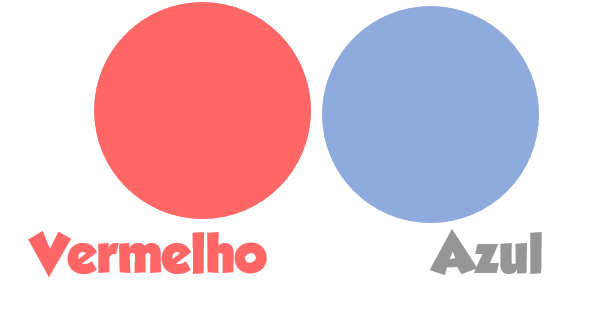
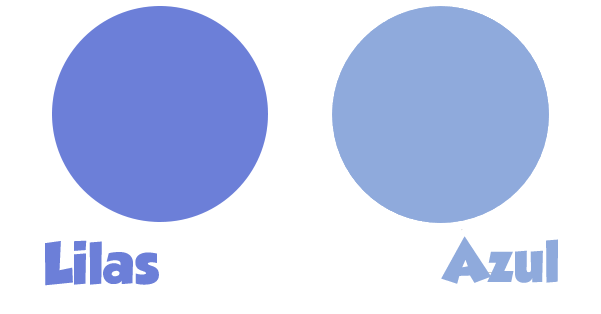
ajustes visuais no jogo dos conjuntos

diff --git a/src/app/hd-game/hd-game.page.ts b/src/app/hd-game/hd-game.page.ts
@@ -12,7 +12,7 @@ let marginWr = -5, marginUsb = -5, marginHd = -5;
 let heightFrame = 0, widthFrame = 0;
 
 //a marginTop da cesta eh de 70vh. Para descobrir o y, eh soh pegar a altura e dividir por 100 (medida por vh) e multiplicar pela margin
-let yBasket = 0, xBasket = 0; 
+let yBasket = 0, xBasket = 0;
 let widthBasket = 0, heightBasket = 0;
 
 let score = 0;
@@ -28,8 +28,8 @@ var choosenCharacter;
 
 export class HdGamePage {
 
-  constructor(private navigation: NavController) { 
-    
+  constructor(private navigation: NavController) {
+
   }
 
 
@@ -42,10 +42,10 @@ export class HdGamePage {
     marginHd = -5;
     this.getItem();
     this.carregar();
-    
+
   }
 
-  ionViewDidLeave(){
+  ionViewDidLeave() {
     document.location.reload();
   }
 
@@ -53,7 +53,7 @@ export class HdGamePage {
     const { value } = await Storage.get({ key: 'character' });
     choosenCharacter = value;
 
-    if(choosenCharacter==1){
+    if (choosenCharacter == 1) {
       document.getElementById("won").setAttribute('src', './assets/wonBoy.png')
       document.getElementById("lost").setAttribute('src', './assets/lostBoy.png')
     } else {
@@ -62,14 +62,14 @@ export class HdGamePage {
     }
   }
 
-  carregar(){
-        
+  carregar() {
+
     heightFrame = document.getElementById("game").offsetHeight;
     widthFrame = document.getElementById("game").offsetWidth;
 
     //a marginTop da cesta eh de 80vh. Para descobrir o y, eh soh pegar a altura e dividir por 100 (medida por vh) e multiplicar pela margin
     xBasket = 0;
-    yBasket = (heightFrame/100)*80; 
+    yBasket = (heightFrame / 100) * 80;
     widthBasket = document.getElementById("basket").getBoundingClientRect().width;
     heightBasket = document.getElementById("basket").getBoundingClientRect().height;
 
@@ -78,64 +78,64 @@ export class HdGamePage {
     var usb = document.getElementById("usb");
     var hd = document.getElementById("hd");
 
-    if(marginCP == -5){
-      cp.style.marginLeft = (Math.random() * (80 - 1) + 1)+"vw"; 
+    if (marginCP == -5) {
+      cp.style.marginLeft = (Math.random() * (80 - 1) + 1) + "vw";
     }
-    cp.style.marginTop = marginCP+"vh";
+    cp.style.marginTop = marginCP + "vh";
 
-    if(marginWr==-5){
-      wr.style.marginLeft  = (Math.random() * (80 - 1) + 1)+"vw"; 
+    if (marginWr == -5) {
+      wr.style.marginLeft = (Math.random() * (80 - 1) + 1) + "vw";
     }
-    wr.style.marginTop = marginWr+"vh";
+    wr.style.marginTop = marginWr + "vh";
 
-    if(marginUsb == -5){
-      usb.style.marginLeft = (Math.random() * (80 - 1) + 1)+"vw"; 
+    if (marginUsb == -5) {
+      usb.style.marginLeft = (Math.random() * (80 - 1) + 1) + "vw";
     }
-    usb.style.marginTop = marginUsb+"vh";
+    usb.style.marginTop = marginUsb + "vh";
 
-    if(marginHd == -5){
-      hd.style.marginLeft = (Math.random() * (80 - 1) + 1)+"vw"; 
+    if (marginHd == -5) {
+      hd.style.marginLeft = (Math.random() * (80 - 1) + 1) + "vw";
     }
-    hd.style.marginTop = marginHd+"vh";
+    hd.style.marginTop = marginHd + "vh";
 
-    document.getElementById("pts").innerHTML = score+"/10";
+    document.getElementById("pts").innerHTML = score + "/10";
 
-    var loop = setInterval(function(){
+    var loop = setInterval(function () {
 
       //chip
-      if(marginCP == -5){
-        cp.style.marginLeft = (Math.random() * (80 - 1) + 1)+"vw"; 
-      } 
-      cp.style.marginTop = marginCP+"vh";
-      marginCP+=1;
+      if (marginCP == -5) {
+        cp.style.marginLeft = (Math.random() * (80 - 1) + 1) + "vw";
+      }
+      cp.style.marginTop = marginCP + "vh";
+      marginCP += 1;
 
       //wireless router
-      if(marginWr==-5){
-        wr.style.marginLeft  = (Math.random() * (80 - 1) + 1)+"vw"; 
+      if (marginWr == -5) {
+        wr.style.marginLeft = (Math.random() * (80 - 1) + 1) + "vw";
       }
-      wr.style.marginTop = marginWr+"vh";
-      marginWr+=1;
+      wr.style.marginTop = marginWr + "vh";
+      marginWr += 1;
 
       //usb
-      if(marginUsb == -5){
-        usb.style.marginLeft = (Math.random() * (80 - 1) + 1)+"vw"; 
+      if (marginUsb == -5) {
+        usb.style.marginLeft = (Math.random() * (80 - 1) + 1) + "vw";
       }
-      usb.style.marginTop = marginUsb+"vh";
-      marginUsb+=1;
+      usb.style.marginTop = marginUsb + "vh";
+      marginUsb += 1;
 
       //hd
-      if(marginHd == -5){
-        hd.style.marginLeft = (Math.random() * (80 - 1) + 1)+"vw"; 
+      if (marginHd == -5) {
+        hd.style.marginLeft = (Math.random() * (80 - 1) + 1) + "vw";
       }
-      hd.style.marginTop = marginHd+"vh";
-      marginHd+=1;
+      hd.style.marginTop = marginHd + "vh";
+      marginHd += 1;
 
 
       xBasket = document.getElementById("basket").getBoundingClientRect().left;
 
       var ycp = cp.offsetTop;
       var xcp = cp.offsetLeft;
-      var widthCp= cp.offsetWidth;
+      var widthCp = cp.offsetWidth;
       var heightCp = cp.offsetHeight;
 
       var yWr = wr.offsetTop;
@@ -152,65 +152,69 @@ export class HdGamePage {
       var xHd = hd.offsetLeft;
       var widthHd = hd.offsetWidth;
       var heightHd = hd.offsetHeight;
-    
-      if( ( (xcp>=xBasket && xcp<=xBasket+widthBasket) || (xcp+widthCp>=xBasket && xcp+widthCp<=xBasket+widthBasket)) && (ycp+heightCp>yBasket+5 && ycp<=yBasket+heightBasket)){
+
+      if (((xcp >= xBasket && xcp <= xBasket + widthBasket) || (xcp + widthCp >= xBasket && xcp + widthCp <= xBasket + widthBasket)) 
+      && (ycp + heightCp > yBasket + 5 && ycp <= yBasket + heightBasket)) {
         cp.style.position = "absolute";
         wr.style.position = "absolute";
         marginCP = -5;
         errors++;
-      } else if(ycp>heightFrame+10){
+      } else if (ycp > heightFrame + 10) {
         marginCP = -5;
       }
 
-      if( ( (xWr>=xBasket && xWr<=xBasket+widthBasket) || (xWr+widthWr>=xBasket && xWr+widthWr<=xBasket+widthBasket)) && (yWr+heightWr>yBasket+5 && yWr<=yBasket+heightBasket)){
+      if (((xWr >= xBasket && xWr <= xBasket + widthBasket) || (xWr + widthWr >= xBasket && xWr + widthWr <= xBasket + widthBasket)) 
+      && (yWr + heightWr > yBasket + 5 && yWr <= yBasket + heightBasket)) {
         marginWr = -5;
         errors++;
-      } else if(yWr>heightFrame+10){
+      } else if (yWr > heightFrame + 10) {
         marginWr = -5;
       }
 
-      if( ( (xUsb>=xBasket && xUsb<=xBasket+widthBasket) || (xUsb+widthUsb>=xBasket && xUsb+widthUsb<=xBasket+widthBasket)) && (yUsb+heightUsb>yBasket+5 && yUsb<=yBasket+heightBasket)){
+      if (((xUsb >= xBasket && xUsb <= xBasket + widthBasket) || (xUsb + widthUsb >= xBasket && xUsb + widthUsb <= xBasket + widthBasket)) 
+      && (yUsb + heightUsb > yBasket + 5 && yUsb <= yBasket + heightBasket)) {
         marginUsb = -5;
         errors++;
-      } else if(yUsb>heightFrame+10){
+      } else if (yUsb > heightFrame + 10) {
         marginUsb = -5;
       }
 
-      if( ( (xHd>=xBasket && xHd<=xBasket+widthBasket) || (xHd+widthHd>=xBasket && xHd+widthHd<=xBasket+widthBasket)) && (yHd+heightHd>yBasket+5 && yHd<=yBasket+heightBasket)){
+      if (((xHd >= xBasket && xHd <= xBasket + widthBasket) || (xHd + widthHd >= xBasket && xHd + widthHd <= xBasket + widthBasket)) 
+      && (yHd + heightHd > yBasket + 5 && yHd <= yBasket + heightBasket)) {
         marginHd = -5;
         score++;
-      } else if(yHd>heightFrame+10){
+      } else if (yHd > heightFrame + 10) {
         marginHd = -5;
       }
 
-      document.getElementById("pts").innerHTML = score+"/10";
+      document.getElementById("pts").innerHTML = score + "/10";
 
-      if(score==10){
+      if (score == 10) {
         document.getElementById("won").style.visibility = "visible";
         marginCP = -10;
         marginHd = -10;
         marginWr = -10;
         marginUsb = -10;
-        setTimeout(function(){clearInterval(loop)}, 1000);
-      } else if(errors>=3){
+        setTimeout(function () { clearInterval(loop) }, 1000);
+      } else if (errors >= 3) {
         document.getElementById("lost").style.visibility = "visible";
         marginCP = -10;
         marginHd = -10;
         marginWr = -10;
         marginUsb = -10;
-        setTimeout(function(){clearInterval(loop)}, 1000);
+        setTimeout(function () { clearInterval(loop) }, 1000);
       }
 
       console.log(errors);
-     
+
     }, 100);
   }
 
-  backChooseGame(){
+  backChooseGame() {
     this.navigation.navigateBack("choose-game")
   }
 
-  backHdPlay(){
+  backHdPlay() {
     this.navigation.back();
   }
 

diff --git a/src/app/sets-game/sets-game.page.scss b/src/app/sets-game/sets-game.page.scss
@@ -49,7 +49,11 @@ ion-header{
     justify-content: center;
     align-items: center;
     text-align: center;
+    background-image: url("../../assets/bgSets.png");
     padding-top: 8vw;
+    height: 100vh;
+    max-height: 100vh;
+    background-size: 100%;
 }
 
 .game{
@@ -64,20 +68,19 @@ ion-header{
     display: flex;
     flex-wrap: wrap;
     justify-content: space-around;
-    border: 5px solid #243b81;
-    border-radius: 10px;
 }
 
 .lists{
-    font-size: 4vw;
-    color: #243b81;
+    font-size: 18pt;
+    color:#ffffff;
+    letter-spacing: 1pt;
+    line-height: 1.1;
 }
 
 .circle {
     width: 60vw;
     height: 65vw;
-    filter: invert(30%) sepia(70%) saturate(2600%) hue-rotate(346deg) brightness(130%) contrast(78%);
-    opacity: .7;
+    filter: invert(76%) sepia(65%) saturate(4808%) hue-rotate(202deg) brightness(86%) contrast(98%);
     position: absolute;
     z-index: 10;
     top: 2vw;
@@ -85,7 +88,8 @@ ion-header{
 }
 
 #circle2 {
-    filter: invert(30%) sepia(70%) saturate(2600%) hue-rotate(200deg) brightness(130%) contrast(78%);
+    filter: invert(47%) sepia(27%) saturate(3387%) hue-rotate(187deg) brightness(109%) contrast(99%);
+    opacity: .7;
     left: 35vw;
 }
 
@@ -121,16 +125,11 @@ ion-header{
 }
 
 .lost{
-    margin-top: 20vh;
     width: 75vw;
+    margin-top: -40vw;
 }
 
 .won {
-    margin-top: 15vh;
-    width: 75vw; 
-}
-ion-footer{
-    background-image: url('../../assets/footerClouds.png');
-    background-size: 100% 100%;
-    height: 20vw;
+    width: 75vw;
+    margin-top: -40vw;
 }

diff --git a/src/app/sets-game/sets-game.page.html b/src/app/sets-game/sets-game.page.html
@@ -1,10 +1,8 @@
-<ion-header class="header ion-no-border">
-</ion-header>
 <ion-content [fullscreen]="true">
   <div class="container">
     <div class="lists" *ngIf="isListsVisible">
-      <p>Salmão: Mouse, Placa Mãe, Disco Rígido</p>
-      <p>Azul: Teclado, Mouse</p>
+      <p><span style="color:#6C7FD8;">Lilas</span>: Mouse, Processador, Disco Rigido</p>
+      <p><span style="color:#3BAEED;">Azul</span>: Teclado, Mouse</p>
     </div>
   <div class="game">
       <div class="warnings" *ngIf="isWarningsVisible">
@@ -22,7 +20,7 @@
       <div class="game-content" *ngIf="isGameVisible">
           <img src="./assets/circle.svg" id="circle" class="circle"/>
           <img src="./assets/circle.svg" id="circle2" class="circle"/>
-          <img src="./assets/motherBoard.svg" id="item" class="items" cdkDrag/>
+          <img src="./assets/cpu.png" id="item" class="items" cdkDrag/>
           <img src="./assets/mouse.png" id="item2" class="items" cdkDrag/>
           <img src="./assets/keyboard.png" id="item3" class="items" cdkDrag/>
           <img src="./assets/hardDrive.png" id="item4" class="items" cdkDrag/>

diff --git a/src/app/hd-game/hd-game.page.html b/src/app/hd-game/hd-game.page.html
@@ -7,10 +7,10 @@
   -->
   <div class="game" id="game">
     <div id="pts" class="pts"></div>
-    <img src="./assets/chip.png" class="obs" id="cp">
+    <img src="./assets/cpu.png" class="obs" id="cp">
     <img src="./assets/wirelessRouter.png" class="obs" id="wr">
     <img src="./assets/usb.png" class="obs" id="usb">
-    <img src="./assets/data.png" class="obs" id="hd">
+    <img src="./assets/hardDrive.png" class="obs" id="hd">
     
     <img src="./assets/basket2.png" class="basket" id="basket" cdkDragBoundary=".game" cdkDragLockAxis = "x" cdkDrag/>
     

diff --git a/src/app/modal/modal.page.html b/src/app/modal/modal.page.html
@@ -9,7 +9,7 @@
       <img src="../../assets/hardDrive.png" class="icons">
       <p class="text"> Mas cuidado, voce <span class="red">nao deve</span> coletar outras coisas</p>
       <div class="icons-not">
-        <img src="../../assets/chip.png" class="icons2">
+        <img src="../../assets/cpu.png" class="icons2">
         <img src="../../assets/usb.png" class="icons2">
         <img src="../../assets/wirelessRouter.png" class="icons2">
       </div>
